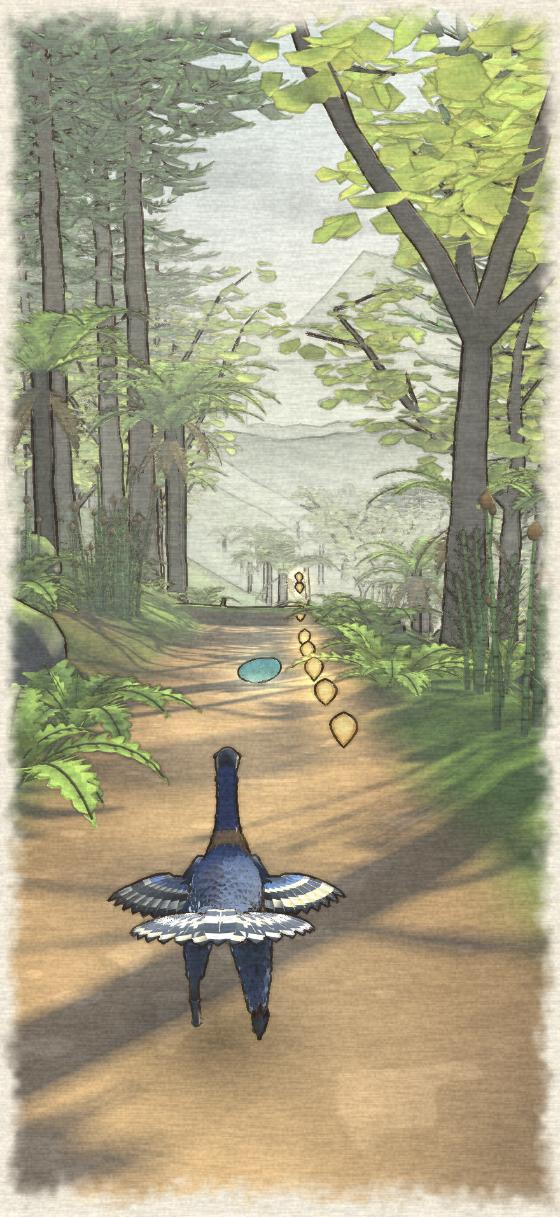
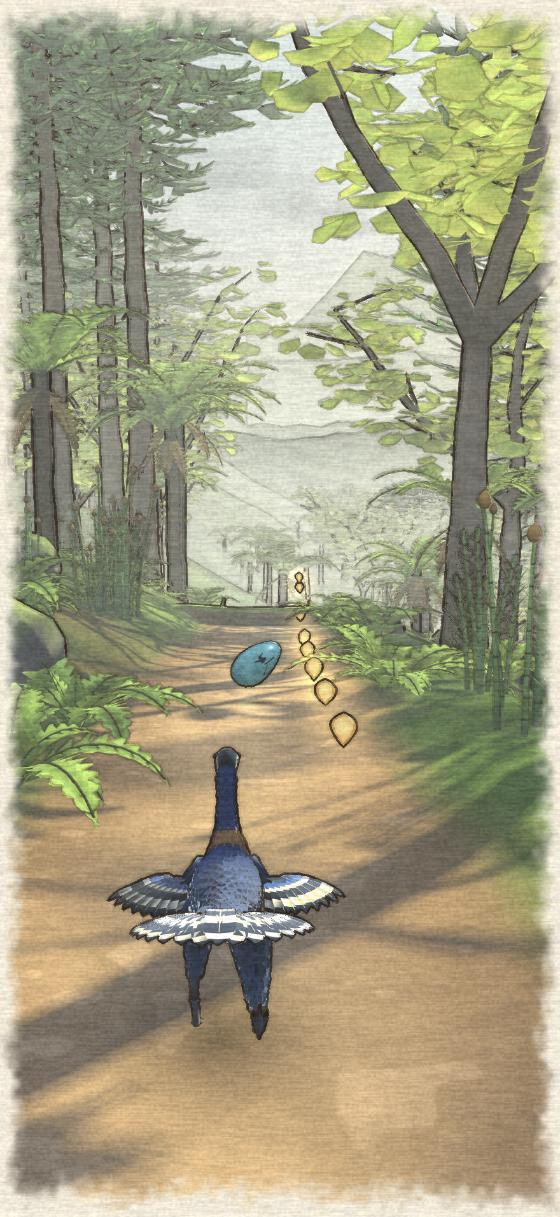
Add Golden Journal style (A's ink and paper with B's light), make the egg read as an egg, commit the brief

diff --git a/src/render/paint.ts b/src/render/paint.ts
@@ -289,20 +289,26 @@ void main() {
   #endif
 
   #ifdef ROLE_EGG
+  float eggCrack = 0.0;
   {
     // speckles and the crack are drawn here so the crack can grow during the chase
-    vec3 q = vObj * 9.0;
-    float sp = smoothstep(0.62, 0.72, vnoise3(q * 1.7)) * 0.45 + smoothstep(0.7, 0.78, vnoise3(q * 4.3 + 9.0)) * 0.5;
-    albedo = mix(albedo, albedo * vec3(0.55, 0.62, 0.7), sp);
-    albedo *= 0.92 + 0.16 * vnoise3(q * 0.6);
+    vec3 q = vObj * 5.0;
+    float sp = smoothstep(0.6, 0.7, vnoise3(q * 1.3)) * 0.55 + smoothstep(0.68, 0.76, vnoise3(q * 3.1 + 9.0)) * 0.45;
+    albedo = mix(albedo, albedo * vec3(0.5, 0.6, 0.72), sp);
+    albedo *= 0.9 + 0.2 * vnoise3(q * 0.5);
     // the egg's long axis is Y in model space
     float along = vObj.y;
     float ang = atan(vObj.z, vObj.x);
-    float zig = 0.16 + 0.05 * sin(ang * 5.0) + 0.035 * sin(ang * 13.0 + 1.3) + 0.02 * sin(ang * 29.0);
+    float zig = 0.14 + 0.06 * sin(ang * 5.0) + 0.04 * sin(ang * 11.0 + 1.3);
     float reach = smoothstep(-3.2 + 6.4 * uCrack, -3.2 + 6.4 * uCrack - 0.6, ang);
-    float crack = (1.0 - smoothstep(0.004, 0.011, abs(along - zig))) * reach;
-    float branch = (1.0 - smoothstep(0.003, 0.008, abs(ang - 0.6 - (along - zig) * 2.5))) * step(zig, along) * step(along, zig + 0.11) * step(0.35, uCrack);
-    albedo = mix(albedo, vec3(0.05, 0.07, 0.08), max(crack, branch));
+    float crack = (1.0 - smoothstep(0.012, 0.026, abs(along - zig))) * reach;
+    // where the chick has pecked through, with two short cracks running up from it
+    vec2 hp = vec2((ang - 0.6) * 0.26, along - zig - 0.03);
+    float hole = (1.0 - smoothstep(0.045, 0.062, length(hp))) * step(0.3, uCrack);
+    float up1 = (1.0 - smoothstep(0.009, 0.02, abs(hp.x - hp.y * 0.5))) * step(0.0, hp.y) * step(hp.y, 0.2);
+    float up2 = (1.0 - smoothstep(0.009, 0.02, abs(hp.x + 0.09 + hp.y * 0.35))) * step(0.0, hp.y) * step(hp.y, 0.14);
+    eggCrack = max(max(crack, hole), max(up1, up2) * step(0.3, uCrack));
+    albedo = mix(albedo, vec3(0.03, 0.05, 0.06), eggCrack);
   }
   #endif
 
@@ -359,7 +365,15 @@ void main() {
   #endif
 
   #ifdef ROLE_EGG
-  col += uGlow * (0.10 + 0.5 * fres);
+  {
+    // The egg is the thing you chase, so it carries its own soft light from above the camera:
+    // pale on top, deeper underneath, with a clean highlight. It reads as a solid shell in any light.
+    vec3 Lv = normalize(vec3(0.0, 1.0, 0.0) * 0.95 - E * 0.55 + cross(E, vec3(0.0, 1.0, 0.0)) * 0.3);
+    float form = dot(Ng, Lv);
+    col *= mix(0.6, 1.34, smoothstep(-0.45, 0.85, form));
+    col += uGlow * (0.02 + 0.16 * fres) * (1.0 - eggCrack);
+    col += vec3(1.0, 0.98, 0.92) * pow(max(dot(reflect(E, Ng), Lv), 0.0), 18.0) * 0.5 * (1.0 - eggCrack);
+  }
   #endif
 
   #ifdef ROLE_AMBER

diff --git a/src/render/styles.ts b/src/render/styles.ts
@@ -9,6 +9,7 @@ import { fxUniforms } from '../world/fx';
 
 export interface Style {
   id: string;
+  tab: string; // short label on the picker
   name: string;
   blurb: string;
   sun: { color: string; power: number };
@@ -33,6 +34,7 @@ export interface Style {
 export const STYLES: Style[] = [
   {
     id: 'journal',
+    tab: 'A',
     name: 'Field Journal',
     blurb: 'Ink line and watercolor wash on paper',
     sun: { color: '#fff0cc', power: 1.0 },
@@ -61,7 +63,37 @@ export const STYLES: Style[] = [
     ui: { ink: '#3b2a20', panel: '#f3ead8', accent: '#e39a2d', text: '#3b2a20' },
   },
   {
+    // A's ink line, paper and crisp washes, lit like B: low golden sun, cooler and deeper shade,
+    // blue-green mist that warms toward the sun.
+    id: 'goldjournal',
+    tab: 'A+',
+    name: 'Golden Journal',
+    blurb: "A's ink and paper, B's morning sun",
+    sun: { color: '#ffd9a0', power: 1.28 },
+    skyAmb: '#b3cad2',
+    groundAmb: '#9b9b7d',
+    shadeTint: '#b6cbf0',
+    band: [0.46, 0.07, 0.2, 0.3],
+    fog: { color: '#a6c9c0', sun: '#ffd596', density: 0.026, base: -38, falloff: 0.04, max: 0.95, haze: 0.0042, glowPower: 4.5, glow: 0.95, ridgeMist: 1.0 },
+    dapple: [0.82, 0.2, 0.06, 0.58],
+    brush: [0.22, 0.36, 0.2, 0],
+    grade: [1.06, 1.04, 1.15],
+    sky: { zenith: '#78afc0', horizon: '#f6e2b2', glow: '#ffd9a0', params: [2.1, 6, 0.85, 0.4] },
+    mist: 0.55,
+    shafts: { amount: 0.5, color: '#ffe2a6' },
+    line: { strength: 0.9, width: 0.9, sensitivity: 0.028, wobble: 1.2, color: '#33241b' },
+    paper: { grain: 0.17, size: 1.9, edge: 0.5, pool: 0.18, color: '#f3e8d2' },
+    final: [1.02, 1.04, 0.1],
+    roles: {
+      ridge: { tint: '#7fa5a0', val: 1.05 },
+      feather: { val: 1.2 },
+      bark: { val: 1.05 },
+    },
+    ui: { ink: '#33241b', panel: '#f3e8d2', accent: '#e39a2d', text: '#33241b' },
+  },
+  {
     id: 'diorama',
+    tab: 'B',
     name: 'Painted Diorama',
     blurb: 'Gouache shapes, golden light, deep mist',
     sun: { color: '#ffd9a0', power: 1.3 },
@@ -87,6 +119,7 @@ export const STYLES: Style[] = [
   },
   {
     id: 'inkmist',
+    tab: 'C',
     name: 'Ink and Mist',
     blurb: 'Ridges stacked in mist, color saved for amber and egg',
     sun: { color: '#fff4dc', power: 0.9 },

diff --git a/src/lookdev/scene.ts b/src/lookdev/scene.ts
@@ -240,26 +240,23 @@ export async function buildLookdev(): Promise<Lookdev> {
   };
   ground(HERO_S + 0.08, -0.03, 0.95, 1.35, 0.46);
 
-  const EGG_S = HERO_S + 7.6;
+  const EGG_S = HERO_S + 6.4;
   const egg = instance(props, 'egg');
-  const eggScale = 0.5;
+  const eggScale = 0.56;
   egg.scale.setScalar(eggScale);
-  egg.position.copy(terrain.place(EGG_S, 0.12, 0.235 * eggScale + 0.07));
+  // caught mid-bounce: off the ground and tipped up, so it reads as a solid egg, not a pool
+  egg.position.copy(terrain.place(EGG_S, 0.1, 0.4));
   orient(egg, EGG_S);
-  // lay the long axis across the trail and catch it part-way through a roll
-  egg.rotateY(0.5);
-  egg.rotateZ(Math.PI / 2 + 0.12);
-  egg.rotateY(2.2);
+  egg.rotateZ(-0.85);
+  egg.rotateX(0.35);
+  egg.rotateY(-0.98); // turn the pecked hole toward the camera
   scene.add(egg);
   materialFor('egg').uniforms.uGlow.value.set('#3fd0c0');
-  ground(EGG_S, 0.12, 0.85, 0.6, 0.5);
-  const eggGlow = makeGlow('#6fe6d6', 1.3, 0.16);
-  eggGlow.position.copy(egg.position);
-  scene.add(eggGlow);
-  // dust kicked up behind the rolling egg
-  for (let i = 0; i < 4; i++) {
-    const puff = makeGlow('#f0d9aa', 0.5 + i * 0.22, 0.2 - i * 0.035);
-    puff.position.copy(terrain.place(EGG_S - 0.35 - i * 0.42, 0.12 + (i % 2 ? 0.1 : -0.08), 0.1 + i * 0.05));
+  ground(EGG_S + 0.05, 0.1, 0.7, 0.52, 0.6);
+  // dust kicked up where it last hit the trail
+  for (let i = 0; i < 3; i++) {
+    const puff = makeGlow('#f0d9aa', 0.42 + i * 0.2, 0.15 - i * 0.035);
+    puff.position.copy(terrain.place(EGG_S - 0.5 - i * 0.4, 0.1 + (i % 2 ? 0.1 : -0.08), 0.1 + i * 0.05));
     scene.add(puff);
   }
 

diff --git a/src/lookdev/ui.ts b/src/lookdev/ui.ts
@@ -40,7 +40,7 @@ export function makeViewerUI(root: HTMLElement, styles: Style[], onPick: (index:
 
   styles.forEach((style, i) => {
     const b = document.createElement('button');
-    b.textContent = `${'ABC'[i]}`;
+    b.textContent = style.tab;
     b.setAttribute('aria-label', style.name);
     b.addEventListener('click', (e) => {
       e.stopPropagation();
@@ -53,7 +53,7 @@ export function makeViewerUI(root: HTMLElement, styles: Style[], onPick: (index:
     setStyle(index: number) {
       current = index;
       const style = styles[index];
-      title.textContent = `${'ABC'[index]}. ${style.name}`;
+      title.textContent = `${style.tab}. ${style.name}`;
       blurb.textContent = style.blurb;
       [...tabs.children].forEach((el, i) => el.classList.toggle('on', i === index));
       root.style.setProperty('--ui-ink', style.ui.ink);

diff --git a/src/style.css b/src/style.css
@@ -171,15 +171,16 @@ body {
   gap: 6px;
 }
 .tabs button {
-  width: 46px;
+  width: 44px;
   height: 46px;
+  padding: 0;
   border-radius: 12px;
   border: 1.5px solid color-mix(in srgb, var(--ui-text) 35%, transparent);
   background: transparent;
   color: var(--ui-text);
   font: inherit;
   font-weight: 700;
-  font-size: 18px;
+  font-size: 17px;
 }
 .tabs button.on {
   background: var(--ui-accent);

diff --git a/art/plants.py b/art/plants.py
@@ -566,10 +566,10 @@ def egg():
 
     def rad(t, ang):
         x = t * 2 - 1
-        # slightly blunter at the bottom end
-        r = 0.235 * math.sqrt(max(0.0, 1 - abs(x) ** 2.25)) * (1.0 - 0.06 * x)
+        # a long oval, fuller toward the lower end so it reads as an egg from far away
+        r = 0.275 * math.sqrt(max(0.0, 1 - abs(x) ** 2.2)) * (1.0 - 0.13 * x)
         return max(r, 0.002), max(r, 0.002)
 
-    geo.tube(path, rad, lambda t, ang, p: srgb('#58b9aa'), 'egg', around=around,
+    geo.tube(path, rad, lambda t, ang, p: srgb('#7fd3c4'), 'egg', around=around,
              uv_fn=lambda t, ang, p: (ang / (2 * math.pi), t))
     return geo

diff --git a/raptor-race-brief.md b/raptor-race-brief.md
@@ -1,0 +1,111 @@
+# Raptor Race, Level 1: a brief for a fresh build
+
+I'd like you to build Level 1 of a mobile game called Raptor Race, from scratch. This brief covers what the game is, how Level 1 plays, what I learned from playtesting an earlier version, and how I like to work. It's deliberately loose about visuals: I want to see what you come up with.
+
+## The short version
+- A portrait 3D runner for iPhone where you play a real feathered dinosaur in the place and time it actually lived.
+- Level 1: you're a Caudipteryx, and your egg is hatching. As the baby is starting to crack open the egg shell, the egg tips out of the nest and rolls off down a wooded hillside trail in Early Cretaceous China, and you chase it to the bottom, catch it, and watch it hatch once you "catch" it.
+- I'm making this for Aidan, my 6 1/2 year old son, so it should be easy to pick up, fair, and delightful, and quietly teach some real paleontology along the way.
+- Before you build anything, I'd like a plan from you, and then concept art we work out together.
+
+## Where you're working
+- You're running on my MacBook Pro. I'm happy to install software if it makes the game better: Blender, a game engine, audio tools, anything. You can use Ableton Live for the music. Recommend a toolchain (and why) before we start, and tell me exactly what to install. I don't need or expect hyper-realistic graphics, but I do want this game to look AAA-quality; one that could easily be confused for a game that costs money in the App Store and has a 4.9+ star rating.
+- Tools and art sources are your call. If you'd use asset libraries, generated art, Blender or something else, say so in your plan.
+- Repo: https://github.com/drew879/raptor-race-fable. GitHub Actions is turned on for GitHub Pages. Every push should deploy, so I can play the latest build at https://drew879.github.io/raptor-race-fable/.
+- I play on an iPhone (a large current model, 440 by 956 points), both in Chrome and as a Home Screen app, saved from Chrome. I am happy to play in a different browser if that's better for whatever reason, and also open to other environments if there are significant advantages, as long as there's still a fairly straightforward deploy, test, and iterate workflow once the initial setup is complete. I prefer to follow along and reply from the Claude app on my phone, so I'll often see your messages away from the laptop.
+- There's an earlier build of this game. I want your own take, so please work only from this brief and skip the earlier code and the earlier version.
+
+## The game
+Raptor Race is a tour of raptors and their relatives, each in its real habitat. Every level is a finite course (around a minute or so) with a story at the start and the end. The tone is warm, premium and natural, a little educational, and never goofy. It's scientifically grounded: feathered dinosaurs, real species, real plants and landscapes, and nothing that looks like a movie raptor.
+
+Level 1 is the tutorial. More levels will follow (Level 2 is a Velociraptor hunting a Protoceratops in the Gobi Desert), so build it in a way that lets more levels join later.
+
+## Level 1: Jehol Forest
+
+### Setting
+- **Where and when:** the Yixian Formation in Liaoning, northeastern China, about 125 million years ago. Its fossils (the Jehol Biota) are famous for preserved feathers.
+- **The hero:** Caudipteryx zoui, a peacock-sized feathered dinosaur with a short beak, long legs, and fans of banded feathers on its tail and short arms. It couldn't fly. The game introduces it as a cousin of Oviraptor. In the earlier version, its banded tail fan made a great signature from behind, and I liked its colors, but I'm open to your take.
+- **The world:** a lush forest on a hillside with a dirt trail winding down it. Conifers, ginkgos, ferns, tree ferns and horsetails, mossy ground, clear mountain streams. No grass (it hadn't spread yet). Volcanoes were nearby: ash from eruptions is what preserved the Jehol fossils so well.
+
+### Story
+- **Opening:** at the top of the hill, an egg sits in the nest, about to hatch. The chick inside pecks and kicks, the egg rocks, tips out and rolls away down the trail. It has to be obvious that the hatching is why it rolls. Then the chase starts.
+- **The egg** can't break. It's blue-green (oviraptorid eggs may really have been blue-green).
+- **Ending:** at the bottom, in a mossy clearing, the egg slows down and you scoop it up. The parent curls around it, the egg hatches and the chick peeks out. A Field Journal moment closes the level: Oviraptor's family brooded their nests like birds.
+
+### How it plays
+- Portrait, a 3D view from behind the hero, three lanes.
+- Swipe left or right to change lanes, swipe up to jump, swipe down to slide. At the end, a swipe up scoops the egg.
+- The egg rolls ahead of you and stays in view. Clean running closes the gap, and stumbling lets it roll further ahead. If it gets too far ahead, you lose it (warn the player before that happens).
+- **Obstacles** come in three kinds: go around, jump over, slide under (or through). For this level, think trees standing in the trail to go around, fallen trees and creeks to jump, and arched cutouts at the base of big trunks to slide through. Every obstacle has to say what to do at a glance, at speed. You are welcome and encouraged to dream up your own obstacles rather than just implement these suggestions. Just run creative decisions like that by me before building.
+- **Amber** is the main collectible, and its placement shows good paths. There's a score, with a bonus for collecting cleanly.
+- **Three hidden finds** per level, on riskier lines. Each one unlocks a Field Journal page with real science. In the earlier version they were amber inclusions (pieces of amber with something trapped inside - they were a glowing light blue to make them visually contrast the smaller pieces of orange amber collected throughout each level).
+- **A fork:** the trail splits around something big. One side is harder with more rewards, the other easier with fewer.
+- **One power-up** (the earlier version had an amber magnet).
+- **Checkpoints,** and a way to keep going after a crash.
+
+### Course design rules
+I'm curious how you lay out the course, so here are the rules to work within, and the layout is yours:
+- It's the tutorial. About 70 seconds feels right. Easy for a kid, but never boring.
+- Teach one thing at a time: lanes, then jumps, then slides, then the fork, then the power-up, then mix them. Each new move gets a short hint the first time it comes up.
+- Leave enough time between decisions to react. The earlier tutorial kept at least about 1.4 seconds between them, and that worked.
+- The trail winds and runs downhill the whole way, and the downhill has to read on a phone (see the lessons below).
+- Hidden finds should be reachable for a kid who goes for them, and visible early enough to decide.
+- Nothing hides behind a crest or a bend: you always see what's coming in time to react.
+
+### Around the run
+The game needs a title screen, pause (with music and sound on and off), a results screen, a Field Journal (pages for what you've found and learned), music and sound. The details are up to you.
+
+## Look and feel
+Here's what the current version was aiming for. Treat it as a mood to react to:
+- **A naturalist's illustrated field journal come to life:** the feel of ink-and-watercolor sketches from an expedition notebook, on bold, simple shapes.
+- **Warm, premium, natural:** a nature documentary filtered through a picture book. Never neon, never cartoon-goofy.
+- **Amber is the signature:** the warmest glow on screen is amber, and the UI and rewards share it.
+- **Level 1's mood:** early morning in a misty, lush hillside forest. Blue-green air, warm sun, an earthy trail, mossy greens, the blue-green egg, golden amber.
+- **Readable at a glance** on a phone at speed: the hero, the egg, obstacles and collectibles always stand apart.
+
+What I want from you is an opinionated style and a deliberate color palette that make the game unmistakably its own. Please weigh in: if you'd take it somewhere else, pitch it. Before building, let's work on concept art together. Show me two or three directions (the same moment of the game in each), tell me which you'd pick and why, and we'll settle it together. How you get the look is up to you.
+
+## Music and sound
+- **What I liked before:** driving orchestral strings in a minor key for the chase, building as you close in on the egg, and amber pickups that sound musical and land in time with the music.
+- **The ending has to land:** no abrupt stop and nothing cheesy. It should resolve and ring out.
+- **Sounds** should be warm and subtle: they confirm what you did and never nag.
+- If you'd make the music in Ableton Live (or with something else), tell me how you'd do it. I do have Ableton Live 12 Standard installed and ready to go.
+
+## What I learned from playtesting the earlier version
+These are problems I ran into, so you can avoid them. Solve them however you like.
+1. **Speed and variety matter.** My first version felt slow and repetitive. The forest tutorial at a gentler pace felt just right for its job. Instead of just running in straight lines, introducing some left and right bends made the gameplay more engaging (though we avoided sharp 90 degree turns since I don't want to completely rip off the original "Temple Run")
+2. **Obstacles have to say what to do.** A trunk propped across the trail looked like a hurdle until it was clearly too tall to jump. Arches looked too narrow to fit through until the opening was clean and roomy. Trees standing in the trail looked like bare poles without branches.
+3. **Downhill is hard to show in portrait.** A steady slope with a camera that follows it looks flat. It read better with steeper stretches where the trail visibly falls away ahead. The portrait view is narrow, so scenery off to the sides barely shows.
+4. **The opening has to explain itself.** At first the egg seemed to hop out of the nest for no reason.
+5. **Up close, quality shows.** The hero, the egg and the chick fill the screen at the start and end, and I notice when they look rough.
+6. **Hints have to be quick to read while running,** never overlap each other, and come early enough to react. Only the pause button should pause the game.
+7. **"Run again" has to reset everything.** The egg once came back already hatched.
+8. **iPhone gotchas:**
+   - Home Screen copies kept loading an old cached build. Show a build number somewhere, and make sure the app updates itself.
+   - In the Home Screen app, a strip at the bottom of the screen wasn't covered by the game.
+   - iOS blurs a band under the status bar, so keep the score and buttons out of it without wasting space.
+   - The pause button once didn't respond on the phone.
+
+## How I like to work
+- **Plans first.** Before building anything new, tell me the plan and wait for my feedback. Ask clarifying questions before you start.
+- **Check-ins:** at each milestone, send a link I can play on my phone and specific playtest questions.
+- **Questions:** when a message has several, make the last message stand on its own. Restate everything that still needs an answer and end with a plain-text, copy-paste template of numbered items I can fill in.
+- **Accuracy:** double-check facts, math and measurements before you show them to me.
+- **Focus:** if I say I want to focus on one thing first, ask me when I'm ready to move on.
+- **Writing:** direct and conversational, plain words, contractions, no em dashes, and no "it's not X, it's Y" phrasing.
+- **Repo habits:** commit small and push often. Keep notes in the repo on decisions and progress so a new session can pick up where the last one left off. Don't put AI model names or IDs in commits, code or docs.
+
+## Suggested first steps
+Change these if you'd do it differently:
+1. Read this, ask me what you need to know, and send a plan: your toolchain, milestones, and what you'll show me first.
+2. Concept art: two or three directions, and we pick one.
+3. A rough playable run on my phone to get the feel right (controls, speed, camera, the downhill).
+4. The whole level, opening to ending.
+5. Polish, music and sound, the menus and journal, and rounds of playtesting.
+
+## Facts you can draw on
+Use these or find your own (and check them):
+- Caudipteryx zoui was described in 1998 from the Yixian Formation. It's an oviraptorosaur, in the same broad group as Oviraptor.
+- Fossils of Oviraptor's relatives sitting on their nests, arms spread over the eggs like a brooding bird, have been found in the Gobi Desert.
+- A 2017 study of pigments in oviraptorid eggshell suggested those eggs were blue-green.
+- Amber can trap remarkable things: a feathered dinosaur tail and a baby bird have both turned up in roughly 99-million-year-old amber from Myanmar, and a spider web with its prey in roughly 110-million-year-old amber from Spain.

diff --git a/docs/NOTES.md b/docs/NOTES.md
@@ -1,10 +1,10 @@
 # Raptor Race: working notes
 
-Decisions and progress. Read `raptor-race-brief.md` first; it's the source of truth for what the game is and how Drew likes to work. The brief stays on the laptop and out of this public repo for now (it has family details), along with anything in `docs/local/`.
+Decisions and progress. Read `raptor-race-brief.md` first; it's the source of truth for what the game is and how Drew likes to work. The brief is committed at the repo root (Drew OK'd that on 2026-11-16). Anything in `docs/local/` stays off the repo.
 
 ## Where things stand
 
-- **Milestone 1 (setup and concept art): waiting on Drew's pick.** The live build is the concept viewer: one frozen moment of the chase in three style directions (A Field Journal, B Painted Diorama, C Ink and Mist). Tap A, B or C to switch, tap the picture to hide the controls, and "fit check" shows how the page fills the phone plus the frame rate.
+- **Milestone 1 (setup and concept art): waiting on Drew's pick between A and A+.** The live build is the concept viewer: one frozen moment of the chase in four looks (A Field Journal, A+ Golden Journal which is A's ink and paper under B's light, B Painted Diorama, C Ink and Mist). A is Drew's favorite of the first three; he asked to see A+ before deciding. Tap a letter to switch, tap the picture to hide the controls, and "fit check" shows how the page fills the phone plus the frame rate.
 - Live build: https://drew879.github.io/raptor-race-fable/
 - Next after the pick: milestone 2, a rough playable run (controls, speed, camera, bends, the downhill).
 
@@ -31,16 +31,29 @@ Decisions and progress. Read `raptor-race-brief.md` first; it's the source of tr
 - The hero, egg and obstacles get less shade than the scenery on purpose, so they never get lost.
 - Triangle budget matters: the first pass drew about 4.7 million triangles a frame. With light models for the distance and planting only what the frame sees, it's about 0.9 million and 6 ms a frame on the M1 Pro. The real game needs chunked streaming and the same light models.
 - The egg is drawn much larger than life during the chase so it reads from a distance. Bring it back to a believable size for the nest and hatching scenes.
+- In round 1 the egg read as "a little puddle": it lay flat on the trail with a round glow under it. It now sits mid-bounce, tipped up, with its own soft top light, speckles, a pecked hole and a tight shadow beneath. Lesson: the egg needs a clear egg silhouette and air under it; never let it rest flat with a glow.
 
 ## Decisions
 
 - **Platform:** a web app (Three.js, TypeScript, Vite), played in Chrome on iPhone and from the Home Screen. Every push to `main` deploys to GitHub Pages through `.github/workflows/deploy.yml`. Native was considered and set aside: slower loop, needs Xcode and a paid developer account.
 - **Art:** every model is built by Blender scripts in `art/` and exported to glTF. No store-bought or generated art, so the whole world shares one hand. Run `npm run art` to rebuild models.
 - **Concept art:** shown as live 3D frames in the real engine (same frozen moment, three styles), so what gets picked is what ships.
-- **Hero colors (first pass, open to change):** blue-black body, cream and dark banded tail and arm fans (banding is preserved in the fossils), a gold collar and gold eye. With forest green, amber gold and the blue-green egg, the game's palette lands on the player's four favorite colors without forcing it.
+- **Hero colors (approved 2026-11-16, "keep, they're beautiful"):** blue-black body, cream and dark banded tail and arm fans (banding is preserved in the fossils), a gold collar and gold eye. With forest green, amber gold and the blue-green egg, the game's palette lands on the player's four favorite colors without forcing it.
 - **Music:** written as MIDI in code, rendered through Ableton Live 12 (LABS and Kontakt 7 are installed). To start, I deliver and Drew reacts. Drew may get hands-on later, and may bring riffs of his own for future levels.
 - **Build number** = number of commits, shown on screen. `version.json` is checked at launch and on return to the foreground; a newer build triggers a reload (`src/app/build.ts`). The service worker (`src/sw.js`) fetches the page fresh every launch and caches the rest per build.
 - **Commits:** small, pushed often, with no AI model names or attribution lines.
+
+## Obstacles approved for Level 1 (2026-11-16)
+
+These are the kinds, not a count. They repeat and combine along the course; expect roughly 30 decision moments in about 70 seconds.
+
+1. Go around: a standing conifer with root flare and low dead branches.
+2. Go around: a mossy boulder.
+3. Jump: a fallen log.
+4. Jump: a narrow creek with bright water.
+5. Slide: a hollow log seen end-on as a big round opening.
+6. Slide: a giant fallen trunk propped on boulders, with a clean, roomy arch.
+7. Go around (optional): a dozing Psittacosaurus, played calm.
 
 ## About the player and the hardware
 
